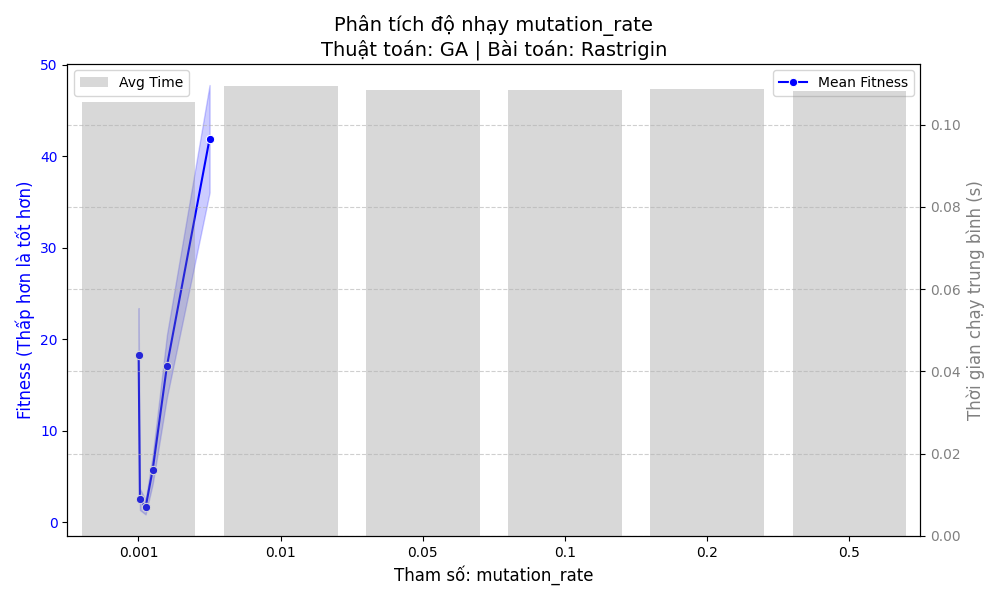
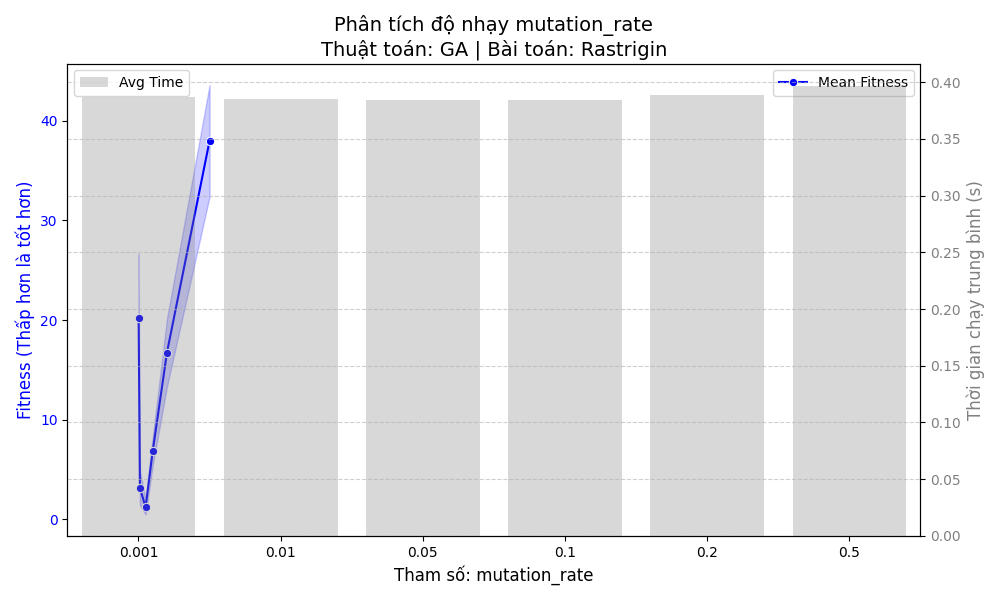
Improve DE,GA,ABC algo speed run + Add Memory Complexity

diff --git a/utils/metrics.py b/utils/metrics.py
@@ -5,43 +5,54 @@ import matplotlib.pyplot as plt
 
 def run_experiment(optimizer_class, problem, n_runs=30, **kwargs):
     """
-    Chạy thực nghiệm và in báo cáo dạng rút gọn (One-line summary).
+    Chạy thực nghiệm, đo lường CẢ THỜI GIAN LẪN BỘ NHỚ, và in báo cáo dạng rút gọn.
     """
     fitness_results = []
     time_results = []
+    memory_results = [] # Thêm mảng lưu trữ kết quả đo bộ nhớ
     
-    # In thông báo đang chạy (dùng end="" để không xuống dòng)
     print(f"⏳ Running {optimizer_class.__name__:<16} ({n_runs} runs)... ", end="", flush=True)
     
     for i in range(n_runs):
+        # Bắt đầu theo dõi bộ nhớ cấp phát
+        tracemalloc.start()
+        
         # Khởi tạo và chạy thuật toán
         optimizer = optimizer_class(problem, **kwargs)
         _, best_fitness, _ = optimizer.solve()
         
+        # Lấy lượng RAM đỉnh (Peak Memory) tiêu thụ trong quá trình chạy
+        current, peak = tracemalloc.get_traced_memory()
+        tracemalloc.stop() # Dừng theo dõi bộ nhớ
+        
+        peak_mb = peak / (1024 * 1024) # Chuyển đổi từ Byte sang Megabyte (MB)
+        
         fitness_results.append(best_fitness)
         time_results.append(optimizer.run_time)
+        memory_results.append(peak_mb)
 
     # Tính toán thống kê
     mean_fit = np.mean(fitness_results)
     std_fit = np.std(fitness_results)
     best_fit = np.min(fitness_results)
     avg_time = np.mean(time_results)
+    avg_mem = np.mean(memory_results) # Tính trung bình lượng RAM tiêu thụ
     
-    # In kết quả dạng ONE-LINE (Gọn gàng)
-    # Ví dụ: ✅ HillClimbing | Fit: 2.50 ± 1.20 | Best: 0.05 | Time: 0.001s
+    # In kết quả dạng ONE-LINE (Đã bổ sung thêm phần Mem)
     print(f"Done!")
-    print(f"   ✅ {optimizer_class.__name__:<16} | Fit: {mean_fit:10.4f} ± {std_fit:.4f} | Best: {best_fit:10.4f} | Time: {avg_time:.4f}s")
+    print(f"   ✅ {optimizer_class.__name__:<16} | Fit: {mean_fit:10.4f} ± {std_fit:.4f} | Best: {best_fit:10.4f} | Time: {avg_time:.4f}s | Mem: {avg_mem:.4f} MB")
     
     return {
         "algorithm": optimizer_class.__name__,
         "mean_fitness": mean_fit,
         "std_fitness": std_fit,
         "best_fitness": best_fit,
-        "avg_time": avg_time
+        "avg_time": avg_time,
+        "avg_memory": avg_mem # Trả về cả dữ liệu bộ nhớ để bạn có thể truy xuất sau này
     }
 
 def measure_memory(optimizer_class, problem, **kwargs):
-    """Đo bộ nhớ RAM tiêu thụ"""
+    """Đo bộ nhớ RAM tiêu thụ cho 1 lần chạy đơn lẻ"""
     tracemalloc.start()
     
     opt = optimizer_class(problem, **kwargs)

diff --git a/algorithms/swarm/abc.py b/algorithms/swarm/abc.py
@@ -21,9 +21,12 @@ class ArtificialBeeColony(Optimizer):
         self.save_history()
 
         for _ in range(self.max_iter):
-            # --- GIAI ĐOẠN EMPLOYED BEES (Vectorized) ---
-            # Chọn k ngẫu nhiên cho mỗi i (k != i)
-            k_indices = np.array([np.random.choice(np.delete(np.arange(self.n_food), i)) for i in range(self.n_food)])
+            # --- GIAI ĐOẠN EMPLOYED BEES (Fully Vectorized) ---
+            # Random k từ 0 đến n_food - 2. Nếu k >= i thì k += 1 để đảm bảo k != i
+            k_indices = np.random.randint(0, self.n_food - 1, self.n_food)
+            mask = k_indices >= np.arange(self.n_food)
+            k_indices[mask] += 1
+            
             phi = np.random.uniform(-1, 1, (self.n_food, dim))
             
             # Tạo ứng viên mới cho toàn bộ quần thể
@@ -37,7 +40,7 @@ class ArtificialBeeColony(Optimizer):
             trials[better_mask] = 0
             trials[~better_mask] += 1
 
-            # --- GIAI ĐOẠN ONLOOKER BEES (Vectorized) ---
+            # --- GIAI ĐOẠN ONLOOKER BEES (Fully Vectorized) ---
             # Tính xác suất dựa trên fitness (càng nhỏ càng tốt)
             fit_inv = 1.0 / (1.0 + fitness + np.abs(np.min(fitness)))
             probs = fit_inv / np.sum(fit_inv)
@@ -45,8 +48,11 @@ class ArtificialBeeColony(Optimizer):
             # Chọn n_food nguồn thức ăn dựa trên xác suất (Onlookers chọn)
             selected_idx = np.random.choice(np.arange(self.n_food), size=self.n_food, p=probs)
             
-            # Lại chọn k ngẫu nhiên cho các nguồn đã chọn
-            k_indices_onlooker = np.array([np.random.choice(np.delete(np.arange(self.n_food), i)) for i in selected_idx])
+            # Tối ưu hóa chọn k_indices_onlooker khác với selected_idx
+            k_indices_onlooker = np.random.randint(0, self.n_food - 1, self.n_food)
+            mask_onlooker = k_indices_onlooker >= selected_idx
+            k_indices_onlooker[mask_onlooker] += 1
+            
             phi_onlooker = np.random.uniform(-1, 1, (self.n_food, dim))
             
             new_pop_on = np.clip(pop[selected_idx] + phi_onlooker * (pop[selected_idx] - pop[k_indices_onlooker]), lb, ub)

diff --git a/algorithms/evolutionary/de.py b/algorithms/evolutionary/de.py
@@ -20,9 +20,12 @@ class DifferentialEvolution(Optimizer):
         self.save_history()
 
         for _ in range(self.max_iter):
-            # 2. Đột biến vector hóa
-            idxs = np.array([np.random.choice(np.delete(np.arange(self.pop_size), i), 3, replace=False) 
-                             for i in range(self.pop_size)])
+            # 2. Đột biến (Đã tối ưu hóa, loại bỏ np.delete để tăng tốc)
+            idxs = np.zeros((self.pop_size, 3), dtype=int)
+            for i in range(self.pop_size):
+                candidates = [j for j in range(self.pop_size) if j != i]
+                idxs[i] = np.random.choice(candidates, 3, replace=False)
+                
             a, b, c = pop[idxs[:, 0]], pop[idxs[:, 1]], pop[idxs[:, 2]]
             mutants = np.clip(a + self.F * (b - c), lb, ub)
             
@@ -34,10 +37,10 @@ class DifferentialEvolution(Optimizer):
             trials = np.where(cross_points, mutants, pop)
             trial_fitness = np.apply_along_axis(self.problem.fitness, 1, trials)
             
-            # 4. Chọn lọc vector hóa (Đã sửa lỗi gán mảng NumPy)
+            # 4. Chọn lọc vector hóa
             better_mask = trial_fitness < fitness
             pop[better_mask] = trials[better_mask]
-            fitness[better_mask] = trial_fitness[better_mask] # Đã thêm mặt nạ lọc
+            fitness[better_mask] = trial_fitness[better_mask] 
             
             # Cập nhật Global Best
             min_idx = np.argmin(fitness)

diff --git a/algorithms/evolutionary/ga.py b/algorithms/evolutionary/ga.py
@@ -33,7 +33,9 @@ class GeneticAlgorithm(Optimizer):
         # Cập nhật kết quả tốt nhất ban đầu
         best_idx = np.argmin(fitness)
         self.update_global_best(pop[best_idx], fitness[best_idx])
-        self.save_history(pop) # Truyền pop để tính chỉ số đa dạng (Diversity)
+        
+        # TỐI ƯU HÓA: Bỏ truyền tham số `pop` để không tính Diversity, giúp tăng tốc tối đa
+        self.save_history() 
 
         # 2. Vòng lặp tiến hóa
         for _ in range(self.max_iter):
@@ -49,7 +51,7 @@ class GeneticAlgorithm(Optimizer):
             parents_shuffled = parents.copy()
             np.random.shuffle(parents_shuffled) # Trộn ngẫu nhiên để lai ghép
             
-            # Mặt nạ lai ghép: Xác suất 50% lấy gen từ bố hoặc mẹ
+            # Mặt nạ lai ghép: Xác suất lấy gen từ bố hoặc mẹ
             cross_mask = np.random.rand(self.pop_size, dim) < 0.5
             perform_cross = np.random.rand(self.pop_size, 1) < self.crossover_rate
             
@@ -87,6 +89,7 @@ class GeneticAlgorithm(Optimizer):
             if fitness[curr_best_idx] < self.global_best_fitness:
                 self.update_global_best(pop[curr_best_idx], fitness[curr_best_idx])
             
-            self.save_history(pop)
+            # TỐI ƯU HÓA: Bỏ truyền tham số `pop` để không tính Diversity
+            self.save_history()
 
         return self.global_best_solution, self.global_best_fitness
